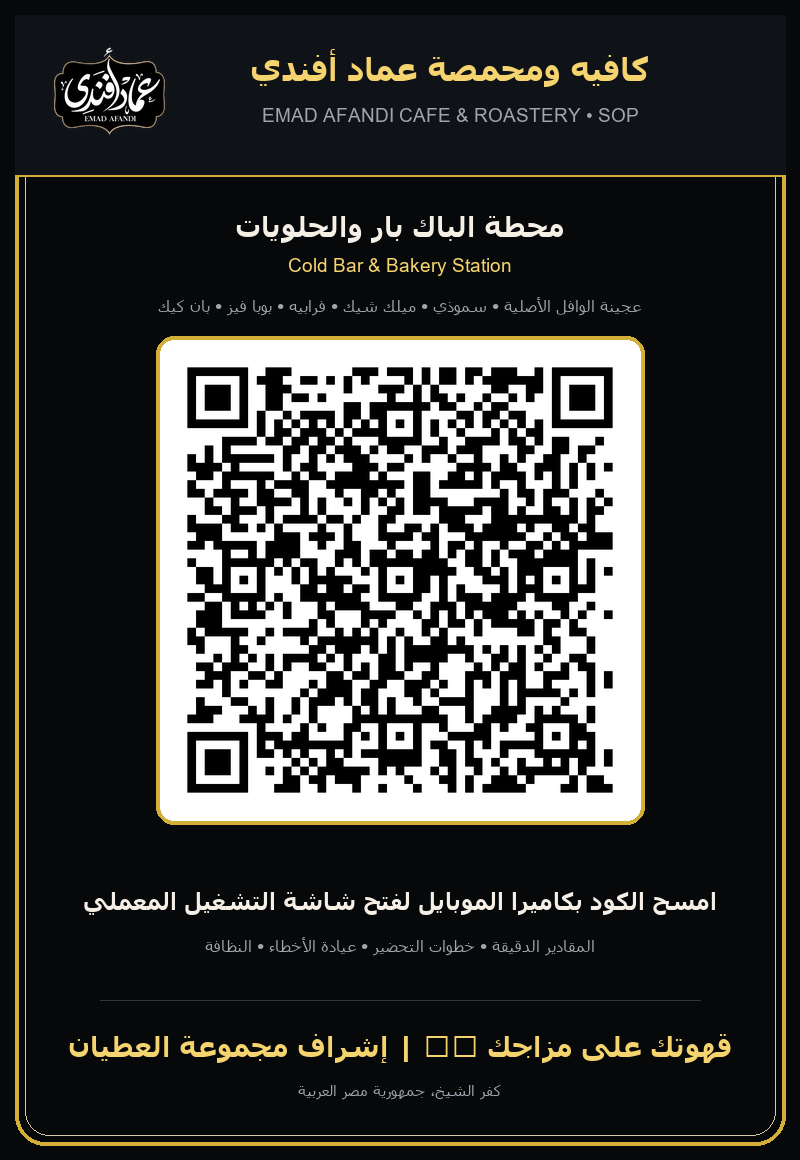
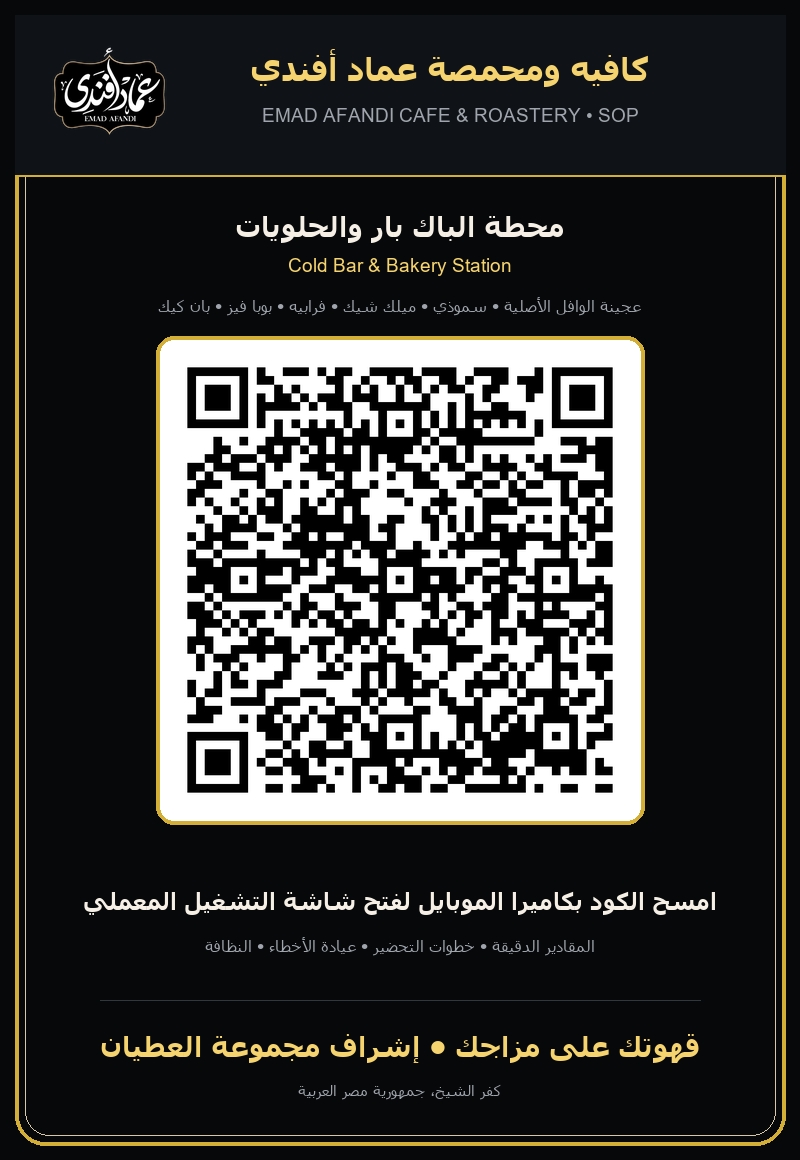
fix(qr): regenerate 300 DPI station labels with Cloudflare Pages live production URLs and clean footer text

Changed region(s): [[0.2188, 0.3103, 0.7812, 0.6828], [0.0938, 0.869, 0.9062, 0.931]]

diff --git a/generate_qrcodes.py b/generate_qrcodes.py
@@ -54,7 +54,7 @@ def get_font(name="tahoma.ttf", size=24):
         return ImageFont.truetype(font_path, size)
     return ImageFont.load_default()
 
-def generate_badges(base_url="https://emadafandi.github.io/Recipe/"):
+def generate_badges(base_url="https://emad-afandi-recipe.pages.dev/"):
     root_dir = os.path.dirname(__file__)
     output_dir = os.path.join(root_dir, "qr-codes")
     os.makedirs(output_dir, exist_ok=True)
@@ -135,7 +135,7 @@ def generate_badges(base_url="https://emadafandi.github.io/Recipe/"):
 
         # Footer Signature
         draw.line([(100, 1000), (700, 1000)], fill=(50, 55, 62), width=1)
-        draw.text((400, 1045), ar("قهوتك على مزاجك ☕👑 | إشراف مجموعة العطيان"), fill=TEXT_GOLD, anchor="mm", font=font_station)
+        draw.text((400, 1045), ar("قهوتك على مزاجك • إشراف مجموعة العطيان"), fill=TEXT_GOLD, anchor="mm", font=font_station)
         draw.text((400, 1090), ar("كفر الشيخ، جمهورية مصر العربية"), fill=TEXT_MUTED, anchor="mm", font=font_small)
 
         # Save final badge
@@ -146,5 +146,5 @@ def generate_badges(base_url="https://emadafandi.github.io/Recipe/"):
     print("\nAll 3 Station QR Badges generated successfully with official logo!")
 
 if __name__ == "__main__":
-    base = sys.argv[1] if len(sys.argv) > 1 else "https://emadafandi.github.io/Recipe/"
+    base = sys.argv[1] if len(sys.argv) > 1 else "https://emad-afandi-recipe.pages.dev/"
     generate_badges(base)
